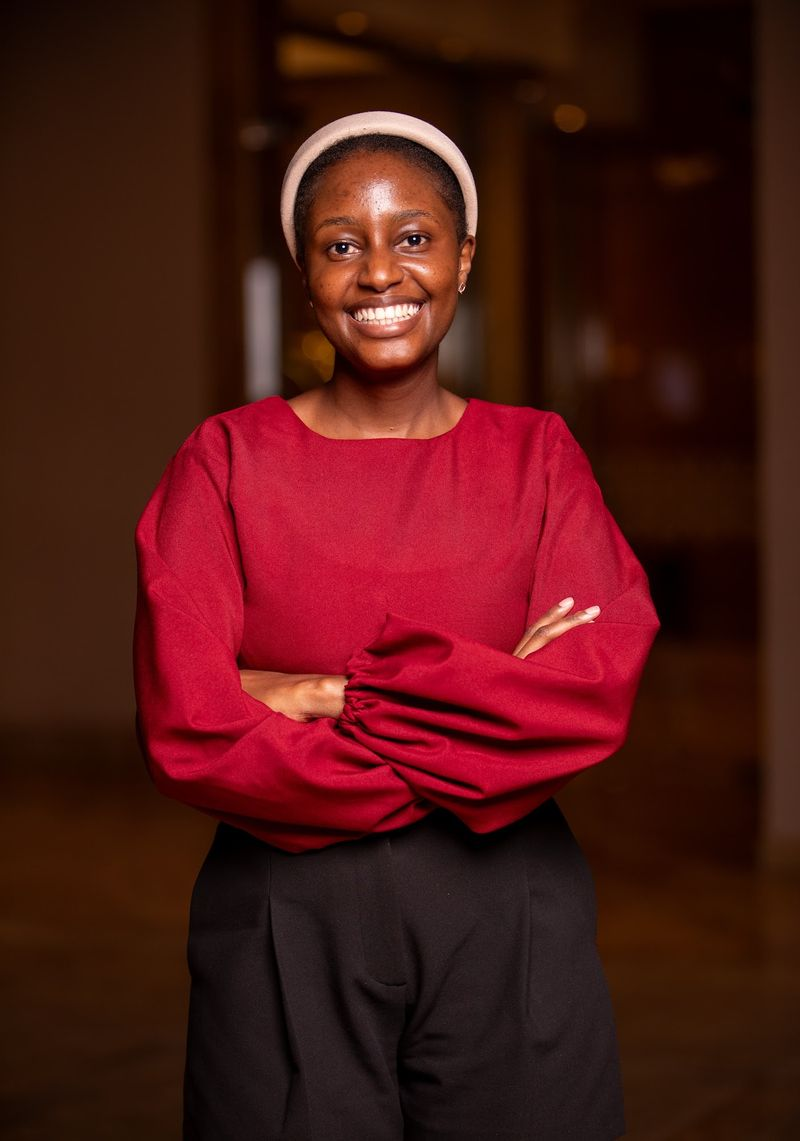
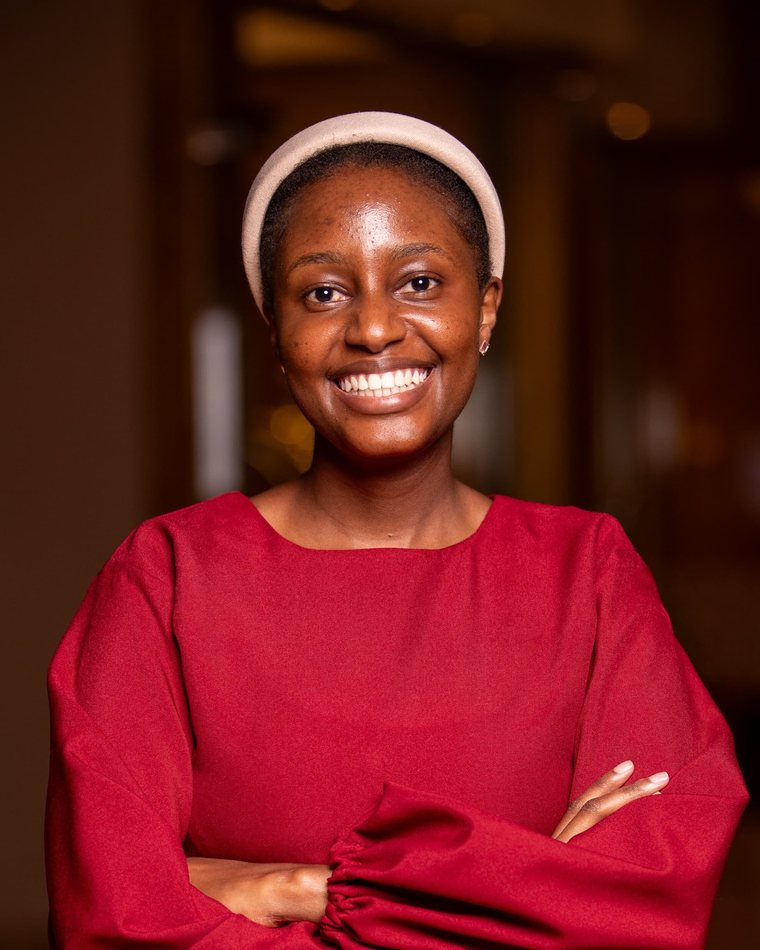
Reframe portrait photos so faces are large and fully visible
The warrior and caregiver photographs were full-body shots being cropped
to a 4:3 landscape card, which left faces small and sometimes cut off.

- Re-cropped Isabella, Nyambura, Purity and Gloria from higher-resolution
  originals to face-centred 4:5 portraits (head at roughly one third down)
- Added a .story-media--portrait card modifier at 4:5 for people shots,
  leaving event photos on the original 4:3
- Switched the About page team photo to a wide frame; it is a landscape
  group shot that was being cropped to portrait

diff --git a/assets/css/style.css b/assets/css/style.css
@@ -338,6 +338,10 @@ p{margin:0 0 1.15em}
 .story:hover{box-shadow:var(--shadow);transform:translateY(-4px)}
 .story-media{aspect-ratio:4/3;overflow:hidden;background:var(--lilac-100)}
 .story-media img{width:100%;height:100%;object-fit:cover;transition:transform .55s var(--ease)}
+/* People shots are portrait crops framed on the face, so give them a taller
+   frame and anchor the top of the image rather than its centre. */
+.story-media--portrait{aspect-ratio:4/5}
+.story-media--portrait img{object-position:center 12%}
 .story:hover .story-media img{transform:scale(1.045)}
 .story-body{padding:1.5rem;flex:1;display:flex;flex-direction:column}
 .story-kicker{font-size:.76rem;letter-spacing:.11em;text-transform:uppercase;font-weight:600;color:var(--purple-500);margin-bottom:.6rem}
@@ -567,3 +571,77 @@ p{margin:0 0 1.15em}
   .hero,.page-head{background:#fff;color:#000}
   .hero h1,.page-head h1{color:#000}
 }
+
+/* ==========================================================================
+   Ask LFA - lupus information assistant
+   ========================================================================== */
+.chat-launch{position:fixed;left:1.2rem;bottom:1.2rem;z-index:90;display:inline-flex;align-items:center;gap:.6rem;
+  padding:.8rem 1.25rem .8rem .9rem;border-radius:var(--r-pill);border:1.5px solid var(--purple);background:var(--purple);color:#fff;
+  font-family:var(--sans);font-weight:600;font-size:.93rem;cursor:pointer;box-shadow:0 6px 20px rgba(52,32,95,.3);
+  transition:transform .25s var(--ease),box-shadow .25s var(--ease),background .2s}
+.chat-launch:hover{transform:translateY(-3px);background:var(--purple-700);box-shadow:0 10px 28px rgba(52,32,95,.38)}
+.chat-launch svg{width:20px;height:20px;fill:none;stroke:currentColor;stroke-width:1.9;stroke-linecap:round;stroke-linejoin:round}
+.chat-launch .chat-ping{position:absolute;top:-3px;right:-3px;width:11px;height:11px;border-radius:50%;background:var(--gold);border:2px solid var(--purple)}
+.chat-launch.is-hidden{display:none}
+@media(max-width:620px){.chat-launch{left:.9rem;bottom:.9rem;padding:.75rem 1.05rem .75rem .8rem;font-size:.88rem}}
+
+.chat{position:fixed;left:1.2rem;bottom:1.2rem;z-index:95;width:min(400px,calc(100vw - 2.4rem));height:min(620px,calc(100vh - 2.4rem));
+  background:var(--paper);border:1px solid var(--line);border-radius:var(--r-xl);box-shadow:var(--shadow-lg);
+  display:flex;flex-direction:column;overflow:hidden;opacity:0;visibility:hidden;transform:translateY(16px) scale(.97);
+  transition:opacity .28s var(--ease),transform .28s var(--ease),visibility .28s}
+.chat.is-open{opacity:1;visibility:visible;transform:none}
+@media(max-width:620px){.chat{left:0;bottom:0;width:100vw;height:100dvh;border-radius:0;border:0}}
+
+.chat-head{display:flex;align-items:center;gap:.8rem;padding:1rem 1.1rem;background:var(--purple);color:#fff;flex:none}
+.chat-head img{width:38px;height:auto;background:#fff;border-radius:10px;padding:3px;flex:none}
+.chat-head-t{flex:1;min-width:0}
+.chat-head-t b{display:block;font-family:var(--display);font-size:1.02rem;font-weight:600;line-height:1.2}
+.chat-head-t span{display:flex;align-items:center;gap:.35rem;font-size:.76rem;color:#CFC0EA;margin-top:.12rem}
+.chat-head-t .dot{width:6px;height:6px;border-radius:50%;background:#5BD6A4;box-shadow:0 0 0 3px rgba(91,214,164,.25)}
+.chat-x{width:34px;height:34px;flex:none;border-radius:50%;border:1px solid rgba(255,255,255,.28);background:rgba(255,255,255,.12);
+  color:#fff;display:grid;place-items:center;cursor:pointer;transition:.2s}
+.chat-x:hover{background:#fff;color:var(--purple)}
+.chat-x svg{width:16px;height:16px;fill:none;stroke:currentColor;stroke-width:2.2;stroke-linecap:round}
+
+.chat-log{flex:1;overflow-y:auto;padding:1.1rem;background:var(--cream);display:flex;flex-direction:column;gap:.75rem;scroll-behavior:smooth}
+.chat-msg{max-width:88%;padding:.8rem 1rem;border-radius:var(--r-lg);font-size:.93rem;line-height:1.55;animation:fade-up .3s var(--ease)}
+.chat-msg p{margin:0 0 .6em}
+.chat-msg p:last-child{margin-bottom:0}
+.chat-msg ul{margin:.4rem 0 .6rem;padding-left:1.1rem}
+.chat-msg li{margin-bottom:.28rem}
+.chat-msg a{color:inherit;text-decoration:underline;text-underline-offset:2px;font-weight:600}
+.chat-bot{align-self:flex-start;background:var(--paper);border:1px solid var(--line);border-bottom-left-radius:6px;color:var(--ink-soft)}
+.chat-bot strong{color:var(--purple-900)}
+.chat-you{align-self:flex-end;background:var(--purple);color:#fff;border-bottom-right-radius:6px}
+.chat-note{align-self:flex-start;background:var(--gold-soft);border:1px solid #EFD9B4;color:#6B4A12;font-size:.86rem}
+.chat-note a{color:#6B4A12}
+.chat-alert{align-self:flex-start;background:#FBEEEB;border:1px solid #F0CCC4;color:#7A2B1C}
+.chat-alert a{color:#7A2B1C}
+.chat-alert strong{color:#7A2B1C}
+
+.chat-typing{align-self:flex-start;display:flex;gap:4px;padding:.9rem 1rem;background:var(--paper);border:1px solid var(--line);
+  border-radius:var(--r-lg);border-bottom-left-radius:6px}
+.chat-typing i{width:7px;height:7px;border-radius:50%;background:var(--lilac);animation:chat-bounce 1.3s infinite ease-in-out}
+.chat-typing i:nth-child(2){animation-delay:.16s}
+.chat-typing i:nth-child(3){animation-delay:.32s}
+@keyframes chat-bounce{0%,60%,100%{transform:translateY(0);opacity:.45}30%{transform:translateY(-5px);opacity:1}}
+@media (prefers-reduced-motion:reduce){.chat-typing i{animation:none;opacity:.7}}
+
+.chat-chips{display:flex;flex-wrap:wrap;gap:.4rem;padding:0 1.1rem .85rem;background:var(--cream);flex:none}
+.chat-chip{padding:.45rem .85rem;border-radius:var(--r-pill);border:1.5px solid var(--lilac-300);background:var(--paper);
+  color:var(--purple-700);font-family:inherit;font-size:.82rem;font-weight:500;cursor:pointer;transition:.2s var(--ease);text-align:left}
+.chat-chip:hover{background:var(--purple);border-color:var(--purple);color:#fff;transform:translateY(-2px)}
+
+.chat-form{display:flex;gap:.5rem;padding:.85rem 1.1rem 1rem;border-top:1px solid var(--line);background:var(--paper);flex:none}
+.chat-form input{flex:1;min-width:0;padding:.75rem .95rem;border:1.5px solid var(--line);border-radius:var(--r-pill);
+  font-family:inherit;font-size:.93rem;color:var(--ink);background:var(--paper)}
+.chat-form input:focus{outline:none;border-color:var(--purple-500);box-shadow:0 0 0 3px var(--lilac-100)}
+.chat-send{width:44px;height:44px;flex:none;border-radius:50%;border:0;background:var(--purple);color:#fff;display:grid;place-items:center;
+  cursor:pointer;transition:.2s var(--ease)}
+.chat-send:hover{background:var(--purple-700);transform:scale(1.05)}
+.chat-send:disabled{opacity:.45;cursor:not-allowed;transform:none}
+.chat-send svg{width:18px;height:18px;fill:none;stroke:currentColor;stroke-width:2;stroke-linecap:round;stroke-linejoin:round}
+.chat-foot{padding:0 1.1rem .85rem;font-size:.73rem;color:var(--muted);line-height:1.45;background:var(--paper);flex:none}
+
+/* Keep the donate button clear of the chat launcher on small screens */
+@media(max-width:620px){.float-give{bottom:.9rem;right:.9rem}}

diff --git a/stories.html b/stories.html
@@ -208,7 +208,7 @@
     <!-- Isabella -->
     <article class="split split--wide-right" id="isabella" style="margin-bottom:clamp(3rem,6vw,5rem)" data-reveal>
       <div>
-        <div class="media media--tall"><img src="assets/img/p-isabella.jpg" alt="Isabella, a lupus warrior in the LFA community" loading="lazy" width="900" height="1200"></div>
+        <div class="media media--tall"><img src="assets/img/p-isabella.jpg" alt="Isabella, a lupus warrior in the LFA community" loading="lazy" width="760" height="950"></div>
       </div>
       <div class="prose">
         <span class="badge badge--purple" style="margin-bottom:1rem">Lupus warrior &middot; Age 61</span>
@@ -234,14 +234,14 @@
         <p>I am learning to listen to my body, take each day as it comes, and celebrate even the small victories.</p>
       </div>
       <div>
-        <div class="media media--tall"><img src="assets/img/p-warrior-2.jpg" alt="Nyambura, a lupus warrior in the LFA community" loading="lazy" width="800" height="1067"></div>
+        <div class="media media--tall"><img src="assets/img/p-warrior-2.jpg" alt="Nyambura, a lupus warrior in the LFA community" loading="lazy" width="760" height="950"></div>
       </div>
     </article>
 
     <!-- Purity -->
     <article class="split split--wide-right" id="purity" data-reveal>
       <div>
-        <div class="media media--tall"><img src="assets/img/p-warrior-1.jpg" alt="Purity, a lupus warrior in the LFA community" loading="lazy" width="800" height="1067"></div>
+        <div class="media media--tall"><img src="assets/img/p-warrior-1.jpg" alt="Purity, a lupus warrior in the LFA community" loading="lazy" width="760" height="950"></div>
       </div>
       <div class="prose">
         <span class="badge badge--purple" style="margin-bottom:1rem">Lupus warrior &middot; Diagnosed 2016</span>
@@ -266,7 +266,7 @@
 
     <article class="split split--wide-right" id="gloria" data-reveal>
       <div>
-        <div class="media media--tall"><img src="assets/img/p-gloria.jpg" alt="Gloria Mugalo, caregiver to a teenage lupus warrior" loading="lazy" width="702" height="1600"></div>
+        <div class="media media--tall"><img src="assets/img/p-gloria.jpg" alt="Gloria Mugalo, caregiver to a teenage lupus warrior" loading="lazy" width="760" height="950"></div>
       </div>
       <div class="prose">
         <span class="badge badge--gold" style="margin-bottom:1rem">Caregiver</span>

diff --git a/src/pages/stories.html b/src/pages/stories.html
@@ -25,7 +25,7 @@
     <!-- Isabella -->
     <article class="split split--wide-right" id="isabella" style="margin-bottom:clamp(3rem,6vw,5rem)" data-reveal>
       <div>
-        <div class="media media--tall"><img src="assets/img/p-isabella.jpg" alt="Isabella, a lupus warrior in the LFA community" loading="lazy" width="900" height="1200"></div>
+        <div class="media media--tall"><img src="assets/img/p-isabella.jpg" alt="Isabella, a lupus warrior in the LFA community" loading="lazy" width="760" height="950"></div>
       </div>
       <div class="prose">
         <span class="badge badge--purple" style="margin-bottom:1rem">Lupus warrior &middot; Age 61</span>
@@ -51,14 +51,14 @@
         <p>I am learning to listen to my body, take each day as it comes, and celebrate even the small victories.</p>
       </div>
       <div>
-        <div class="media media--tall"><img src="assets/img/p-warrior-2.jpg" alt="Nyambura, a lupus warrior in the LFA community" loading="lazy" width="800" height="1067"></div>
+        <div class="media media--tall"><img src="assets/img/p-warrior-2.jpg" alt="Nyambura, a lupus warrior in the LFA community" loading="lazy" width="760" height="950"></div>
       </div>
     </article>
 
     <!-- Purity -->
     <article class="split split--wide-right" id="purity" data-reveal>
       <div>
-        <div class="media media--tall"><img src="assets/img/p-warrior-1.jpg" alt="Purity, a lupus warrior in the LFA community" loading="lazy" width="800" height="1067"></div>
+        <div class="media media--tall"><img src="assets/img/p-warrior-1.jpg" alt="Purity, a lupus warrior in the LFA community" loading="lazy" width="760" height="950"></div>
       </div>
       <div class="prose">
         <span class="badge badge--purple" style="margin-bottom:1rem">Lupus warrior &middot; Diagnosed 2016</span>
@@ -83,7 +83,7 @@
 
     <article class="split split--wide-right" id="gloria" data-reveal>
       <div>
-        <div class="media media--tall"><img src="assets/img/p-gloria.jpg" alt="Gloria Mugalo, caregiver to a teenage lupus warrior" loading="lazy" width="702" height="1600"></div>
+        <div class="media media--tall"><img src="assets/img/p-gloria.jpg" alt="Gloria Mugalo, caregiver to a teenage lupus warrior" loading="lazy" width="760" height="950"></div>
       </div>
       <div class="prose">
         <span class="badge badge--gold" style="margin-bottom:1rem">Caregiver</span>

diff --git a/index.html b/index.html
@@ -377,7 +377,7 @@
     </div>
     <div class="grid g-3">
       <article class="story" data-reveal>
-        <div class="story-media"><img src="assets/img/p-isabella.jpg" alt="Isabella, a lupus warrior and LFA community member" loading="lazy" width="900" height="1200"></div>
+        <div class="story-media story-media--portrait"><img src="assets/img/p-isabella.jpg" alt="Isabella, a lupus warrior and LFA community member" loading="lazy" width="760" height="950"></div>
         <div class="story-body">
           <p class="story-kicker">Lupus warrior &middot; Age 61</p>
           <h3>Isabella</h3>
@@ -386,7 +386,7 @@
         </div>
       </article>
       <article class="story" data-reveal data-reveal-delay="100">
-        <div class="story-media"><img src="assets/img/p-warrior-2.jpg" alt="Nyambura, a lupus warrior in the LFA community" loading="lazy" width="800" height="1067"></div>
+        <div class="story-media story-media--portrait"><img src="assets/img/p-warrior-2.jpg" alt="Nyambura, a lupus warrior in the LFA community" loading="lazy" width="760" height="950"></div>
         <div class="story-body">
           <p class="story-kicker">Lupus warrior &middot; Eldoret</p>
           <h3>Nyambura</h3>
@@ -395,7 +395,7 @@
         </div>
       </article>
       <article class="story" data-reveal data-reveal-delay="200">
-        <div class="story-media"><img src="assets/img/p-gloria.jpg" alt="Gloria Mugalo, caregiver to a teenage lupus warrior" loading="lazy" width="702" height="1600"></div>
+        <div class="story-media story-media--portrait"><img src="assets/img/p-gloria.jpg" alt="Gloria Mugalo, caregiver to a teenage lupus warrior" loading="lazy" width="760" height="950"></div>
         <div class="story-body">
           <p class="story-kicker">Caregiver</p>
           <h3>Gloria Mugalo</h3>

diff --git a/src/pages/index.html b/src/pages/index.html
@@ -194,7 +194,7 @@
     </div>
     <div class="grid g-3">
       <article class="story" data-reveal>
-        <div class="story-media"><img src="assets/img/p-isabella.jpg" alt="Isabella, a lupus warrior and LFA community member" loading="lazy" width="900" height="1200"></div>
+        <div class="story-media story-media--portrait"><img src="assets/img/p-isabella.jpg" alt="Isabella, a lupus warrior and LFA community member" loading="lazy" width="760" height="950"></div>
         <div class="story-body">
           <p class="story-kicker">Lupus warrior &middot; Age 61</p>
           <h3>Isabella</h3>
@@ -203,7 +203,7 @@
         </div>
       </article>
       <article class="story" data-reveal data-reveal-delay="100">
-        <div class="story-media"><img src="assets/img/p-warrior-2.jpg" alt="Nyambura, a lupus warrior in the LFA community" loading="lazy" width="800" height="1067"></div>
+        <div class="story-media story-media--portrait"><img src="assets/img/p-warrior-2.jpg" alt="Nyambura, a lupus warrior in the LFA community" loading="lazy" width="760" height="950"></div>
         <div class="story-body">
           <p class="story-kicker">Lupus warrior &middot; Eldoret</p>
           <h3>Nyambura</h3>
@@ -212,7 +212,7 @@
         </div>
       </article>
       <article class="story" data-reveal data-reveal-delay="200">
-        <div class="story-media"><img src="assets/img/p-gloria.jpg" alt="Gloria Mugalo, caregiver to a teenage lupus warrior" loading="lazy" width="702" height="1600"></div>
+        <div class="story-media story-media--portrait"><img src="assets/img/p-gloria.jpg" alt="Gloria Mugalo, caregiver to a teenage lupus warrior" loading="lazy" width="760" height="950"></div>
         <div class="story-body">
           <p class="story-kicker">Caregiver</p>
           <h3>Gloria Mugalo</h3>

diff --git a/news.html b/news.html
@@ -263,7 +263,7 @@
       </article>
 
       <article class="story news-item" data-tags="story warrior isabella resilience community">
-        <div class="story-media"><img src="assets/img/p-isabella.jpg" alt="Isabella, a lupus warrior in the LFA community" loading="lazy" width="900" height="1200"></div>
+        <div class="story-media story-media--portrait"><img src="assets/img/p-isabella.jpg" alt="Isabella, a lupus warrior in the LFA community" loading="lazy" width="760" height="950"></div>
         <div class="story-body">
           <p class="story-kicker">Community story</p>
           <h3>Meet Isabella, lupus warrior</h3>
@@ -273,7 +273,7 @@
       </article>
 
       <article class="story news-item" data-tags="story caregiver gloria support family">
-        <div class="story-media"><img src="assets/img/p-gloria.jpg" alt="Gloria Mugalo, caregiver to a teenage lupus warrior" loading="lazy" width="702" height="1600"></div>
+        <div class="story-media story-media--portrait"><img src="assets/img/p-gloria.jpg" alt="Gloria Mugalo, caregiver to a teenage lupus warrior" loading="lazy" width="760" height="950"></div>
         <div class="story-body">
           <p class="story-kicker">Community story</p>
           <h3>Meet Gloria, caregiver</h3>

diff --git a/src/pages/news.html b/src/pages/news.html
@@ -80,7 +80,7 @@
       </article>
 
       <article class="story news-item" data-tags="story warrior isabella resilience community">
-        <div class="story-media"><img src="assets/img/p-isabella.jpg" alt="Isabella, a lupus warrior in the LFA community" loading="lazy" width="900" height="1200"></div>
+        <div class="story-media story-media--portrait"><img src="assets/img/p-isabella.jpg" alt="Isabella, a lupus warrior in the LFA community" loading="lazy" width="760" height="950"></div>
         <div class="story-body">
           <p class="story-kicker">Community story</p>
           <h3>Meet Isabella, lupus warrior</h3>
@@ -90,7 +90,7 @@
       </article>
 
       <article class="story news-item" data-tags="story caregiver gloria support family">
-        <div class="story-media"><img src="assets/img/p-gloria.jpg" alt="Gloria Mugalo, caregiver to a teenage lupus warrior" loading="lazy" width="702" height="1600"></div>
+        <div class="story-media story-media--portrait"><img src="assets/img/p-gloria.jpg" alt="Gloria Mugalo, caregiver to a teenage lupus warrior" loading="lazy" width="760" height="950"></div>
         <div class="story-body">
           <p class="story-kicker">Community story</p>
           <h3>Meet Gloria, caregiver</h3>

diff --git a/about.html b/about.html
@@ -210,7 +210,7 @@
       <p>The impact of lupus reaches families, workplaces, communities and national health systems, while unequal access to diagnosis, treatment, social protection and specialist care continues to place a disproportionate burden on people living with chronic autoimmune diseases.</p>
     </div>
     <div data-reveal data-reveal-delay="120">
-      <div class="media media--tall"><img src="assets/img/team-1.jpg" alt="The LFA leadership team addressing the community at World Lupus Day 2026" loading="lazy" width="900" height="600"></div>
+      <div class="media media--wide"><img src="assets/img/team-1.jpg" alt="The LFA leadership team addressing the community at World Lupus Day 2026" loading="lazy" width="900" height="600"></div>
       <p class="media-caption">LFA leadership at World Lupus Day 2026, Nairobi. Photo: Raymond Kiunga.</p>
       <div class="card" style="margin-top:1.6rem">
         <h4 style="margin-bottom:.9rem">Our work focuses on strengthening the lupus ecosystem through</h4>

diff --git a/src/pages/about.html b/src/pages/about.html
@@ -27,7 +27,7 @@
       <p>The impact of lupus reaches families, workplaces, communities and national health systems, while unequal access to diagnosis, treatment, social protection and specialist care continues to place a disproportionate burden on people living with chronic autoimmune diseases.</p>
     </div>
     <div data-reveal data-reveal-delay="120">
-      <div class="media media--tall"><img src="assets/img/team-1.jpg" alt="The LFA leadership team addressing the community at World Lupus Day 2026" loading="lazy" width="900" height="600"></div>
+      <div class="media media--wide"><img src="assets/img/team-1.jpg" alt="The LFA leadership team addressing the community at World Lupus Day 2026" loading="lazy" width="900" height="600"></div>
       <p class="media-caption">LFA leadership at World Lupus Day 2026, Nairobi. Photo: Raymond Kiunga.</p>
       <div class="card" style="margin-top:1.6rem">
         <h4 style="margin-bottom:.9rem">Our work focuses on strengthening the lupus ecosystem through</h4>
